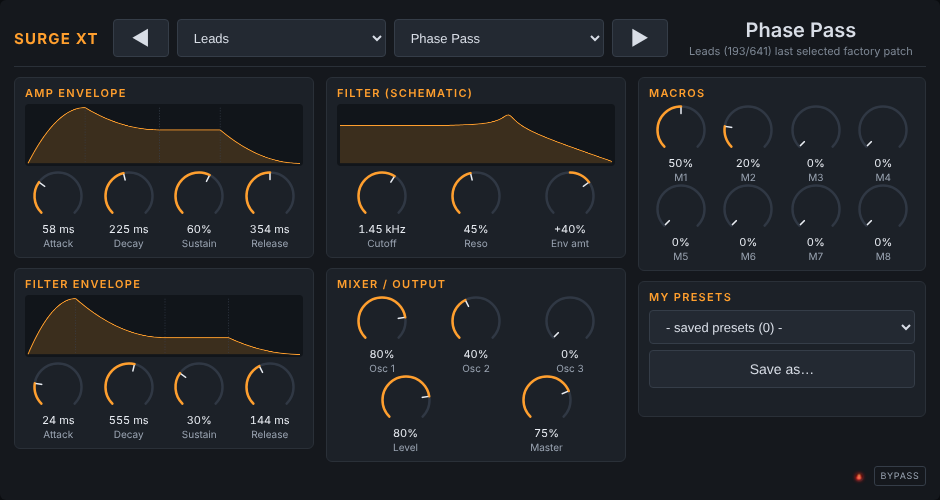
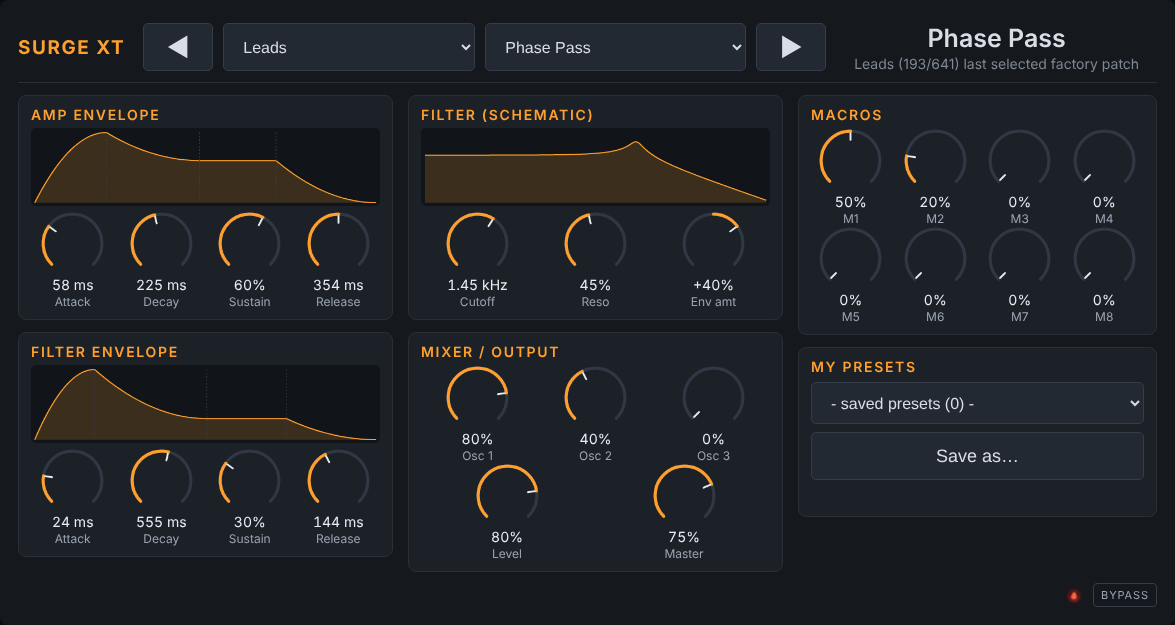
modgui: panel 1.25x bigger by default; --panel-scale option (scales the stylesheet at install time)
Claude-Session: https://claude.ai/code/session_01A7W9XgA1V9sguPkxPVV5Pr

diff --git a/resources/modgui/surge-xt/javascript-surge-xt.js b/resources/modgui/surge-xt/javascript-surge-xt.js
@@ -110,11 +110,11 @@ function (event, funcs) {
             '<button class="sx-next">&#9654;</button>' +
             '<div class="sx-namebox"><div class="sx-name">-</div><div class="sx-sub"></div></div></div>' +
             '<div class="sx-body">' +
-            '<div class="sx-col" style="width:300px">' +
+            '<div class="sx-col sx-col-w">' +
               '<div class="sx-card"><h4>Amp envelope</h4><canvas class="sx-graph sx-g-aeg" width="560" height="140"></canvas><div class="sx-row" data-k="aeg_a,aeg_d,aeg_s,aeg_r"></div></div>' +
               '<div class="sx-card"><h4>Filter envelope</h4><canvas class="sx-graph sx-g-feg" width="560" height="140"></canvas><div class="sx-row" data-k="feg_a,feg_d,feg_s,feg_r"></div></div>' +
             '</div>' +
-            '<div class="sx-col" style="width:300px">' +
+            '<div class="sx-col sx-col-w">' +
               '<div class="sx-card"><h4>Filter (schematic)</h4><canvas class="sx-graph sx-g-flt" width="560" height="140"></canvas><div class="sx-row" data-k="cutoff,res,envmod"></div></div>' +
               '<div class="sx-card"><h4>Mixer / Output</h4><div class="sx-row" data-k="o1,o2,o3"></div><div class="sx-row" data-k="a_vol,g_vol"></div></div>' +
             '</div>' +

diff --git a/resources/modgui/surge-xt/stylesheet-surge-xt.css b/resources/modgui/surge-xt/stylesheet-surge-xt.css
@@ -19,6 +19,7 @@
 .surgext .sx-body { display: flex; gap: 12px; margin-top: 10px; height: 410px; }
 .surgext .sx-card { background: #1c2128; border: 1px solid #2a3038; border-radius: 6px; padding: 8px 10px; box-sizing: border-box; }
 .surgext .sx-card h4 { margin: 0 0 4px 0; font-size: 11px; letter-spacing: .12em; text-transform: uppercase; color: #ff9f2e; font-weight: 600; }
+.surgext .sx-col-w { width: 300px; }
 .surgext .sx-col { display: flex; flex-direction: column; gap: 10px; }
 .surgext .sx-row { display: flex; gap: 4px; justify-content: space-around; }
 .surgext canvas.sx-graph { width: 100%; height: 62px; background: #11151a; border-radius: 4px; display: block; margin-bottom: 4px; }

diff --git a/resources/modgui/surge-xt/scale-css.py b/resources/modgui/surge-xt/scale-css.py
@@ -1,0 +1,28 @@
+#!/usr/bin/env python3
+"""Scale every pixel size in the Surge XT panel stylesheet.
+
+usage: scale-css.py <in.css> <out.css> <factor>
+
+The stylesheet is written for factor 1.0. 1px lines (borders) and 0 are kept as they are so the
+thin lines stay crisp; everything else (sizes, paddings, fonts, radii) is multiplied.
+"""
+import re, sys
+
+
+def main():
+    src, dst, factor = sys.argv[1], sys.argv[2], float(sys.argv[3])
+    css = open(src, encoding="utf-8").read()
+
+    def scale(m):
+        v = float(m.group(1))
+        if v in (0.0, 1.0):
+            return m.group(0)
+        out = round(v * factor)
+        return "%dpx" % (out if out else 1)
+
+    css = re.sub(r"(?<![\w.#-])(-?\d+(?:\.\d+)?)px", scale, css)
+    open(dst, "w", encoding="utf-8").write(css)
+
+
+if __name__ == "__main__":
+    main()
